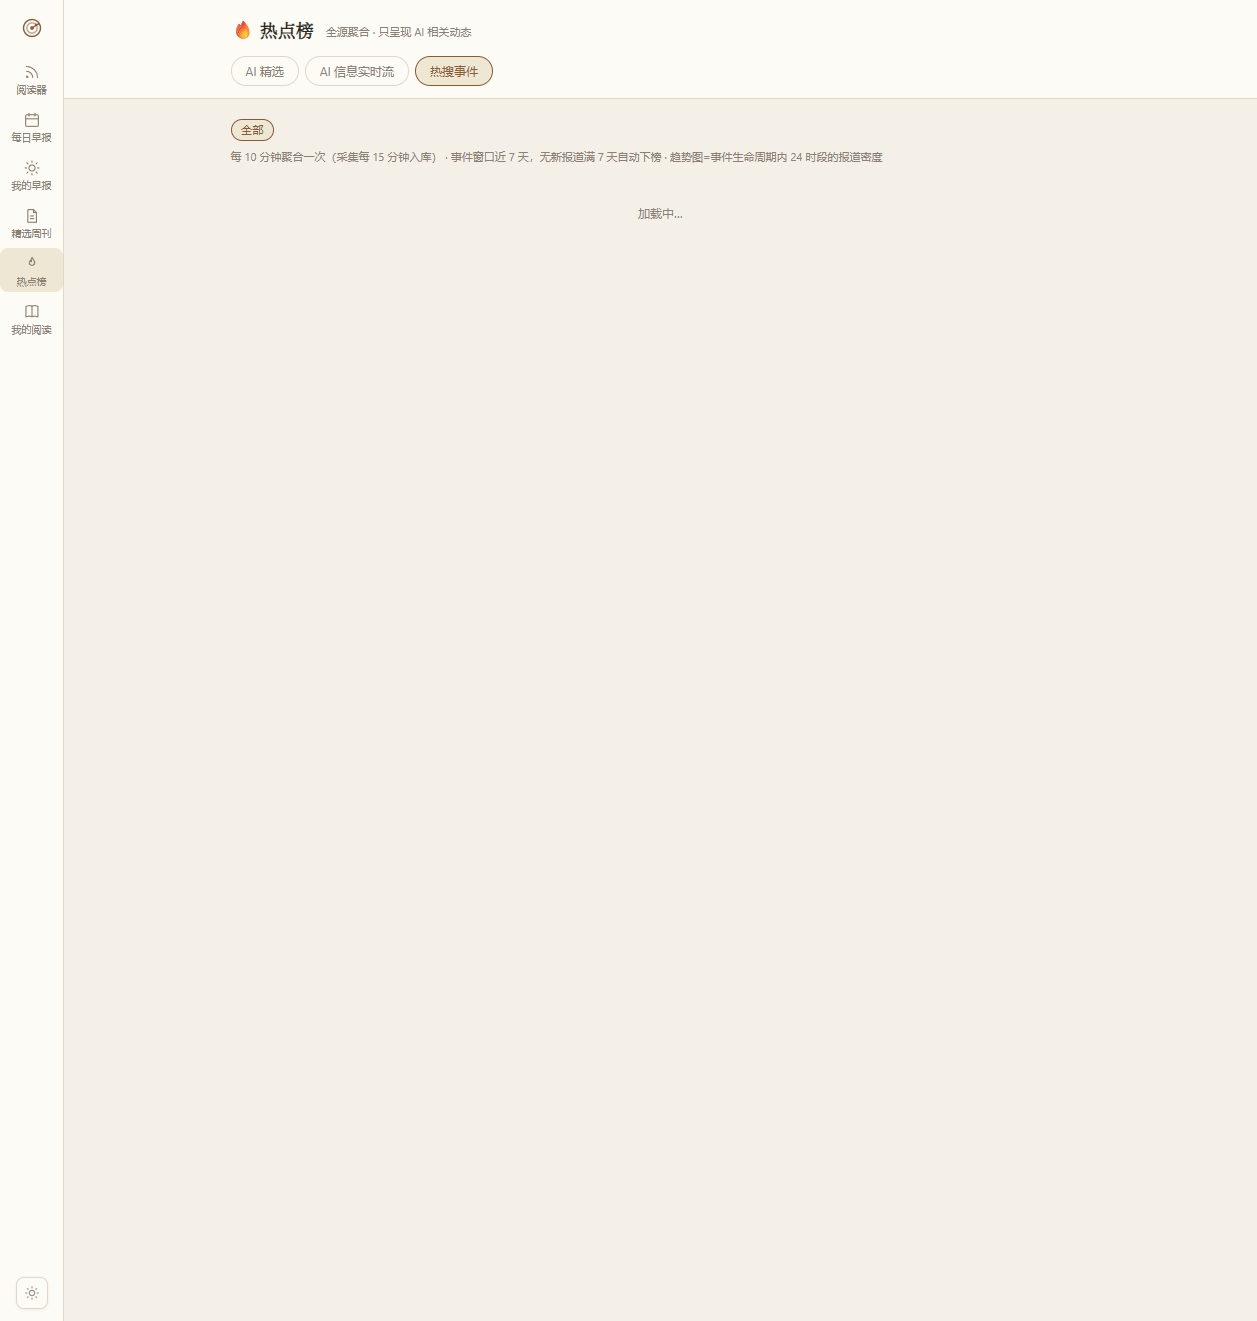
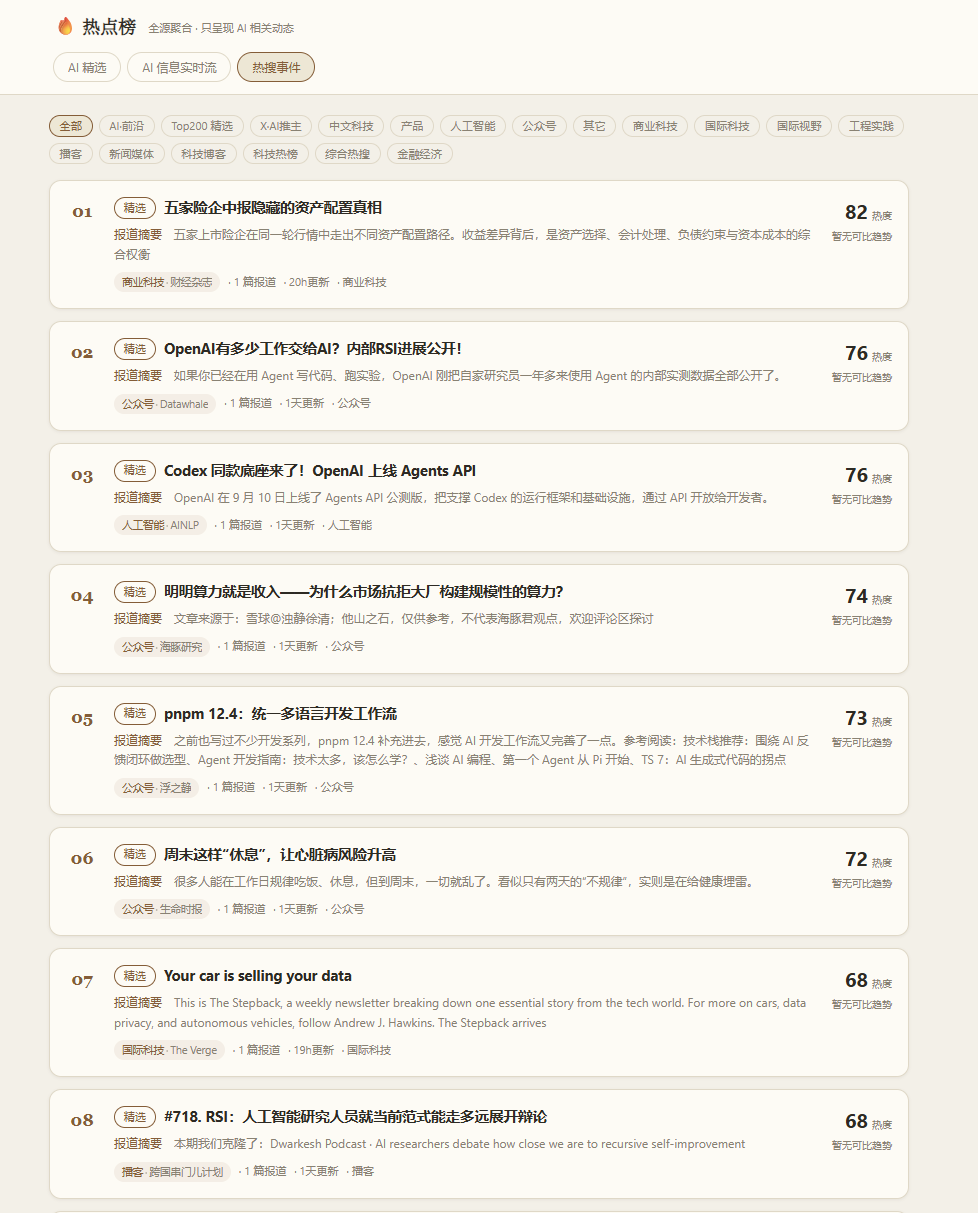
docs(screenshots): 替换用户提供的 4 张截图 + 热点榜拆为 AI精选/AI实时流/热搜事件 三栏展示

diff --git a/README.md b/README.md
@@ -102,13 +102,19 @@ AI 策展周度精选 + 主题全景四视角 + 补充阅读
 
 ![精选周刊](docs/screenshots/10-weekly-page.png)
 
-### 热点榜 (`/hot/`)
+### 热点榜 · AI 精选 (`/hot/`)
 
-AI 精选 / AI 信息实时流 / 热搜事件三 Tab + 七分类胶囊 + 事件卡带趋势折线
+自有源六维 ≥60 且 AI 相关 + 七分类胶囊（AI·前沿 / Top200 / 国际科技 / X推主 / 科技博客 / 公众号 / 中文科技）
 
-![热点榜](docs/screenshots/03-hot-page.png)
+![AI 精选](docs/screenshots/03-hot-page.png)
 
-### 热搜事件榜
+### 热点榜 · AI 信息实时流
+
+只出 AI 相关内容 + 60s 无感刷新 + 分类筛选
+
+![AI 信息实时流](docs/screenshots/03b-hot-realtime.png)
+
+### 热点榜 · 热搜事件
 
 72h 全域聚类 + 24 桶趋势折线 + 分组信源胶囊 + 热度降序
 
